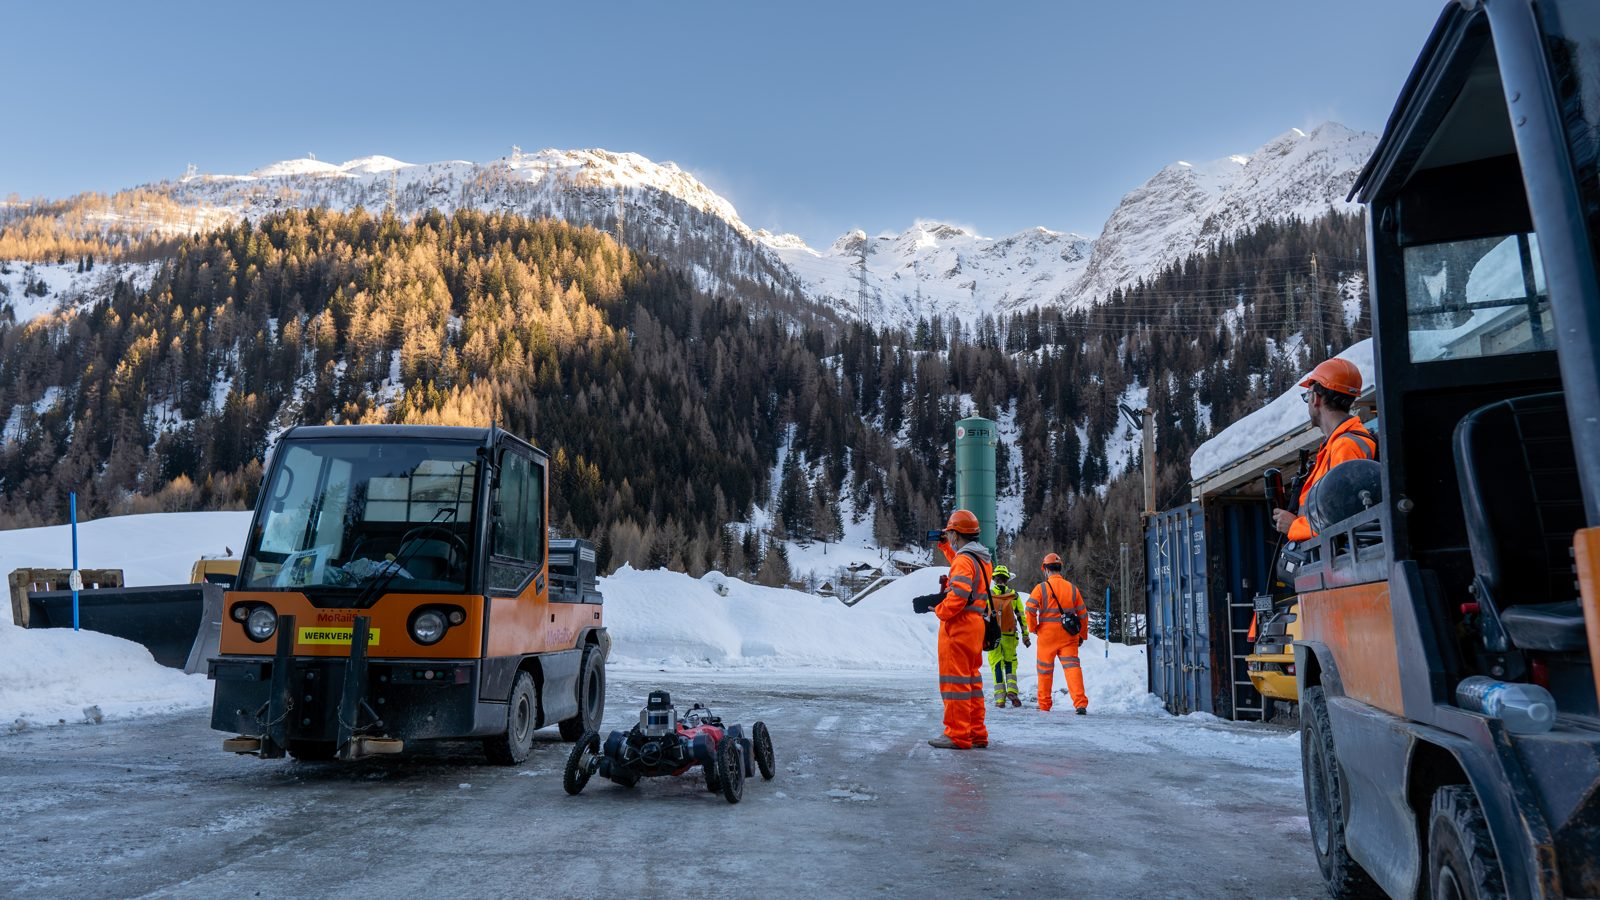
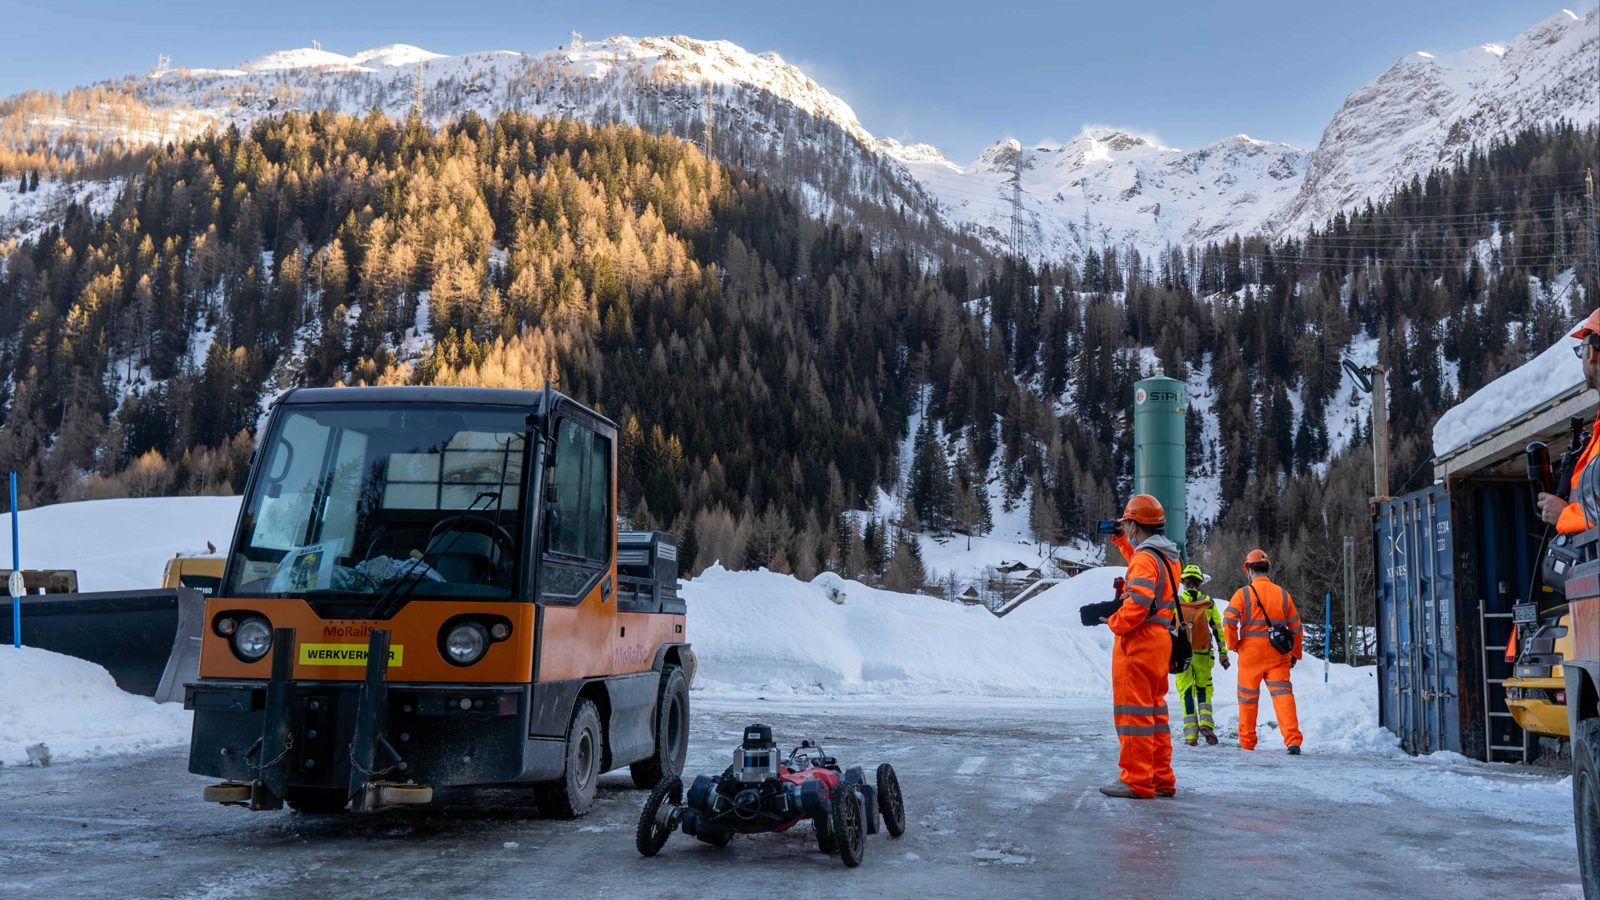
Profile mosaic: re-edited photos, white captions without gradient
Replaces the forest-hike and alpine photos with the user's re-edited
crops (robot more prominent; forklift removed) and drops the manual
crop offset on the forest tile. Captions are now white over the photo
with a faint text shadow instead of the white gradient band.

diff --git a/assets/css/styles.css b/assets/css/styles.css
@@ -786,10 +786,10 @@ h2 {
   right: 0;
   bottom: 0;
   padding: 6px 10px;
-  background: linear-gradient(0deg, rgba(255, 255, 255, 0.92), rgba(255, 255, 255, 0));
   font-size: 11px;
   line-height: 1.35;
-  color: var(--color-text);
+  color: #fff;
+  text-shadow: 0 1px 2px rgba(0, 0, 0, 0.6), 0 0 6px rgba(0, 0, 0, 0.35);
   pointer-events: none;
 }
 
